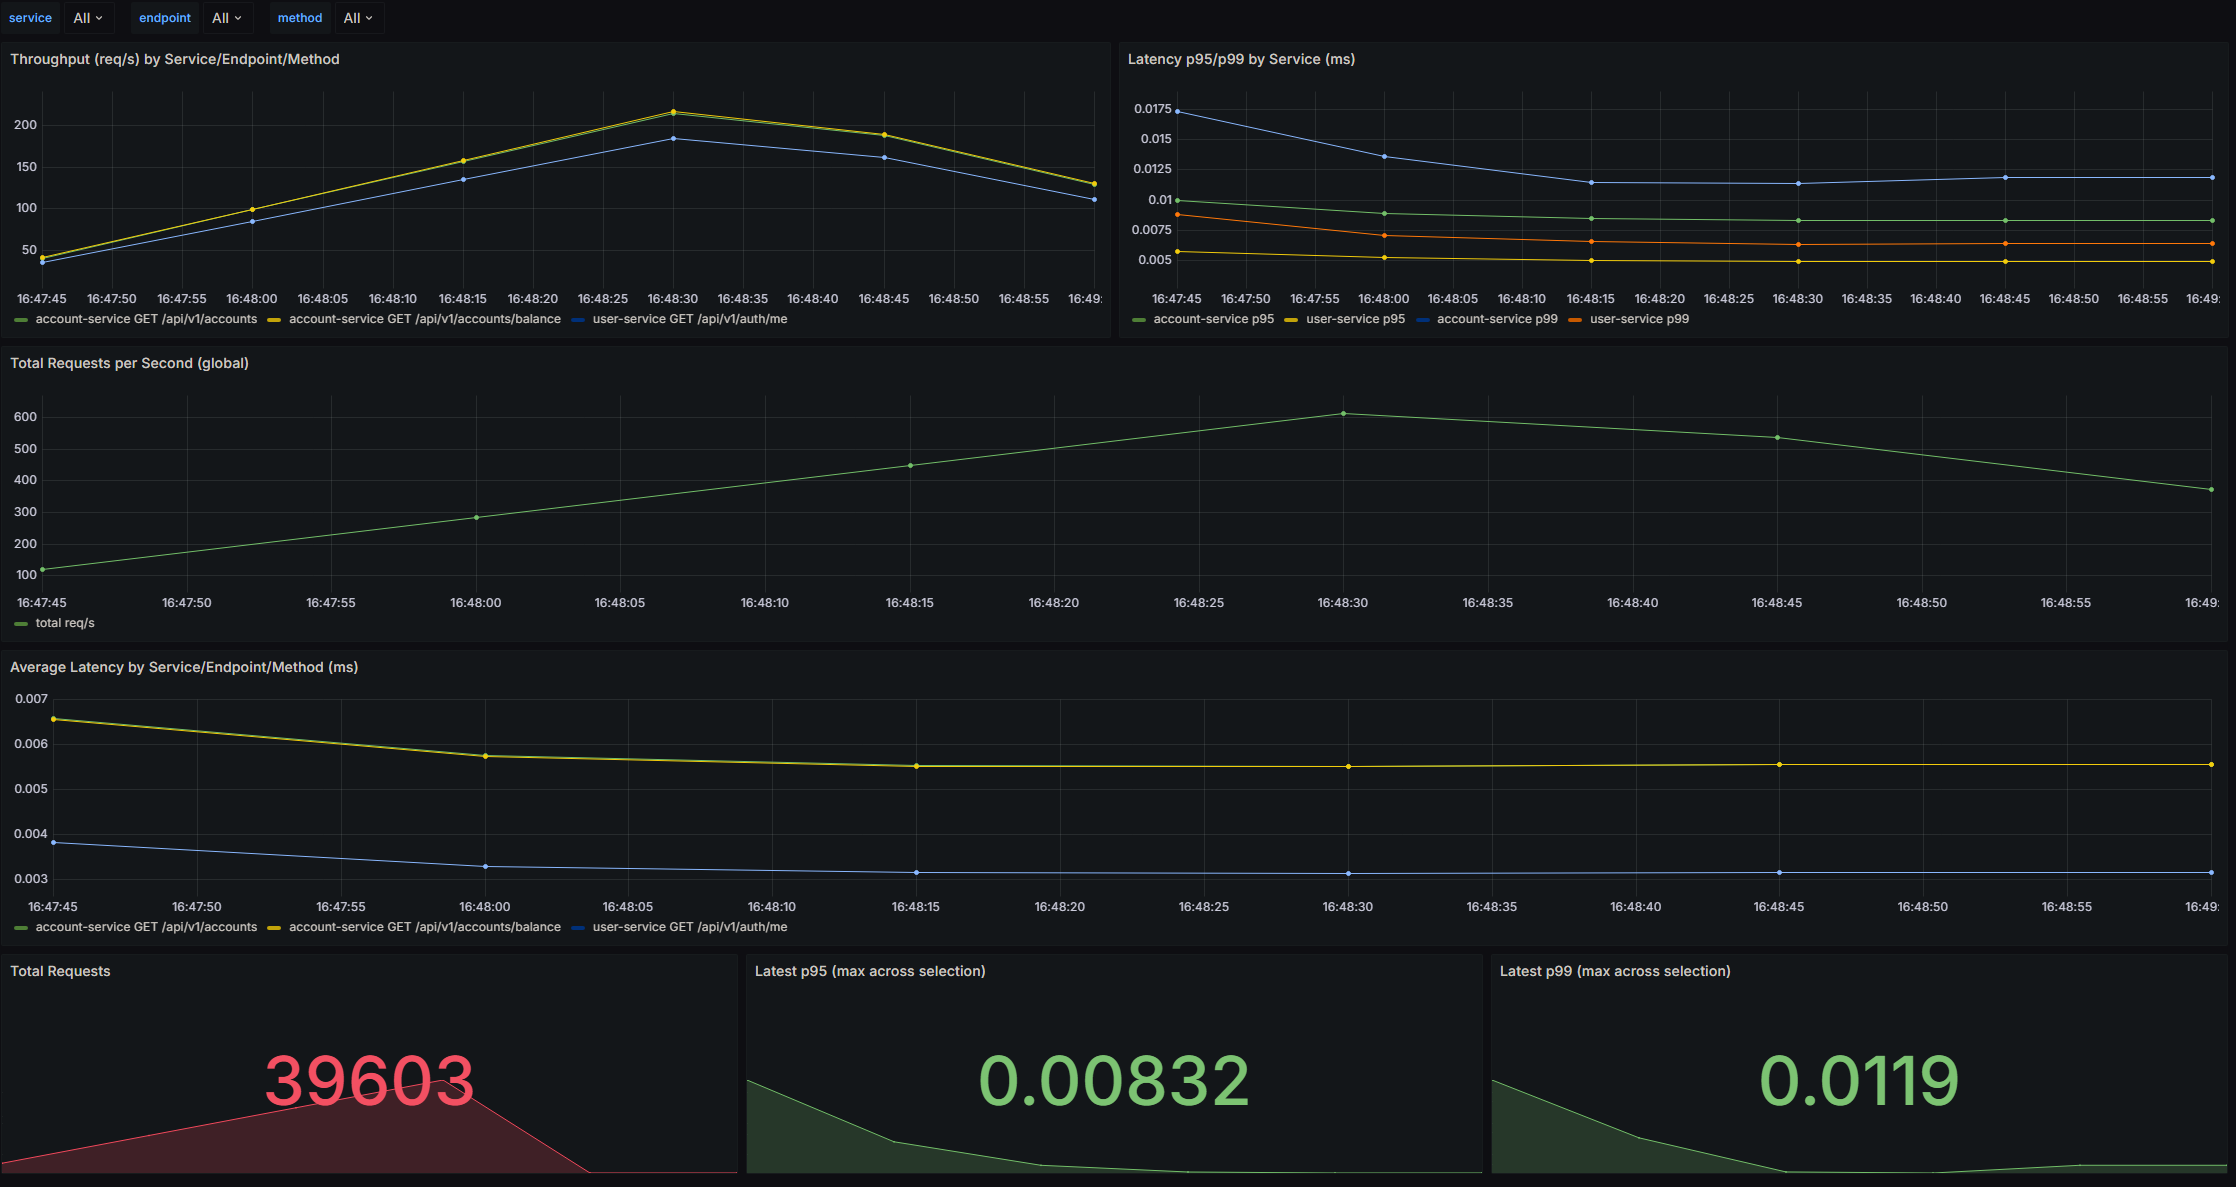
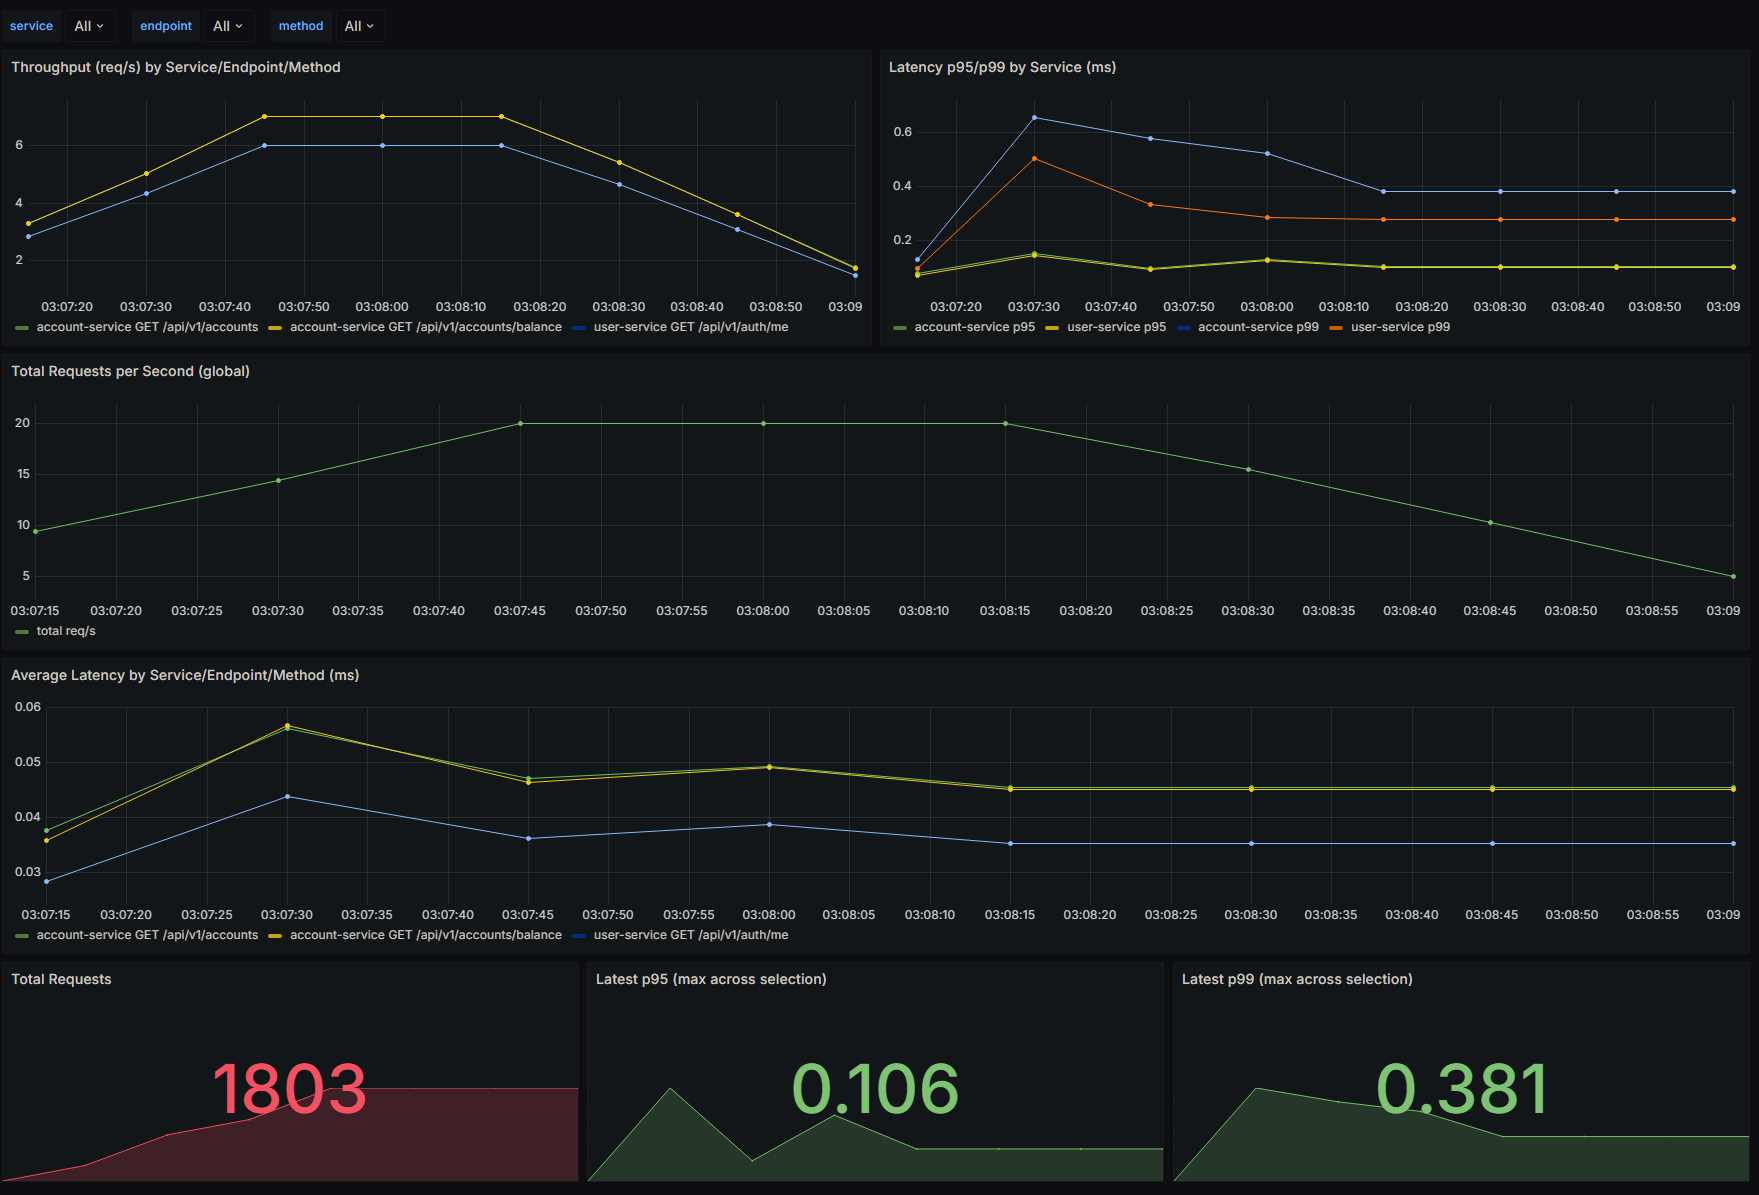
Ajustement tests de charge

diff --git a/docs/rapport/rapport.md b/docs/rapport/rapport.md
@@ -316,20 +316,26 @@ Cette section présente les expériences de performance exécutées sur CanBankX
 
 ### Méthodologie des tests
 
-Les tests de charge ont été exécutés avec `k6`. Les métriques ont été collectées par `Prometheus` puis visualisées dans `Grafana`.
+Les tests de charge ont été exécutés avec `k6`, les métriques ont été collectées par `Prometheus`, puis visualisées dans `Grafana`.
 
-La campagne a été réalisée en trois familles:
-- scénario de référence sans cache Redis;
-- scénario avec cache Redis activé sur les lectures concernées;
-- scénario avec montée en charge horizontale du gateway (`1` à `4` instances) via le load balancer NGINX.
+Toutes les campagnes ont été réalisées sur la VM fournie pour le projet (`vm-amir-log430`), et non sur une machine locale de développement. Les exécutions ont été faites via `docker-compose`, avec Keycloak pour l'authentification et KrakenD comme point d'entrée API.
 
-Les campagnes de charge ont été configurées pour viser un niveau élevé de trafic, avec une cible principale autour de `660` requêtes par seconde pour les scénarios métiers, et un objectif minimal de `600` requêtes par seconde.
+La campagne a été organisée en deux axes:
+- comparaison `sans cache` vs `cache Redis activé`;
+- montée en charge horizontale des services (`1` à `4` instances) derrière le load balancer NGINX.
 
-Les indicateurs observés dans les tableaux de bord sont:
-- latence `P95` et `P99`;
-- requêtes par seconde (throughput);
-- taux d'erreurs;
-- saturation CPU/mémoire quand elle est visible.
+Sur cette VM, la campagne a été stabilisée autour d'une cible opérationnelle d'environ `20 req/s` pour obtenir des résultats fiables et reproductibles sur les scénarios métiers.
+
+Paramètres de campagne:
+- durée de chaque exécution: `90s`;
+- charge visée: `~20 req/s`;
+- comparaison sur les configurations sans cache, avec cache, puis montée en charge de `1` à `4` instances.
+
+Les indicateurs suivis sont:
+- latence (`avg`, `P95`, `P99`);
+- throughput (requêtes par seconde);
+- taux d'erreurs (requêtes en échec et codes HTTP d'erreur);
+- stabilité sous charge (variation des courbes Grafana).
 
 ### Résultats sans cache
 
@@ -340,9 +346,20 @@ Les captures suivantes correspondent au baseline sans cache. Elles servent de po
 ![Résultats sans cache - vue 3](images/without-cache-3.png)
 ![Résultats sans cache - vue 4](images/without-cache-4.png)
 
-Sur ces vues sans cache, on observe le comportement de référence: la latence et le débit restent dépendants de la pression directe sur PostgreSQL. Les graphiques de requêtes et de latence montrent la réponse du système sans optimisation de lecture, ce qui constitue la base de comparaison pour les sections suivantes.
+Captures console `k6` associées (sans cache):
 
-En termes de débit, les courbes montrent que le système atteint un palier de plusieurs centaines de requêtes par seconde, avec une référence autour du seuil cible (`600+` req/s) selon la charge appliquée.
+![k6 sans cache - run 1](images/k6-without-cache-1.png)
+![k6 sans cache - run 2](images/k6-without-cache-2.png)
+![k6 sans cache - run 3](images/k6-without-cache-3.png)
+![k6 sans cache - run 4](images/k6-without-cache-4.png)
+
+Ces vues représentent le comportement de référence: la latence est plus sensible à la charge de lecture sur PostgreSQL et les courbes sont moins stables que dans la configuration avec cache. Ce baseline sert de point de comparaison direct pour évaluer le gain de Redis.
+
+Mesures observées dans Grafana sur les runs de référence (sans cache):
+- débit nominal autour de `20 req/s` (plateau proche de la cible configurée);
+- latence moyenne élevée (ordre de grandeur autour de `500 ms` sur les runs chargés);
+- pics de latence `P95` pouvant dépasser `2 s` dans les configurations les moins favorables;
+- stabilité globalement inférieure à la configuration avec cache.
 
 ### Résultats avec Redis
 
@@ -353,37 +370,58 @@ Les captures suivantes montrent la configuration avec cache Redis activé.
 ![Résultats avec Redis - vue 3](images/with-cache-3.png)
 ![Résultats avec Redis - vue 4](images/with-cache-4.png)
 
-Par comparaison avec les captures sans cache, ces vues montrent une réduction de la pression sur la base pour les lectures répétitives. L'effet attendu est visible sur la stabilité des courbes de latence et sur la capacité à soutenir plus de requêtes, avec un taux d'erreurs maîtrisé selon les dashboards.
+Captures console `k6` associées (avec cache):
 
-Le throughput observé devient plus stable autour des paliers élevés de charge, ce qui confirme que l'activation de Redis aide à maintenir les requêtes par seconde atteintes pendant les tests.
+![k6 avec cache - run 1](images/k6-with-cache-1.png)
+![k6 avec cache - run 2](images/k6-with-cache-2.png)
+![k6 avec cache - run 3](images/k6-with-cache-3.png)
+![k6 avec cache - run 4](images/k6-with-cache-4.png)
+
+Par comparaison avec le baseline, l'activation de Redis réduit la pression de lecture sur PostgreSQL et améliore la stabilité des temps de réponse. Les tableaux de bord Grafana montrent un taux d'erreurs maîtrisé (`http_req_failed` proche de `0%` dans les runs stables) et un throughput maintenu autour de la cible configurée sur la VM.
+
+Mesures observées dans Grafana avec cache activé:
+- taux d'erreurs proche de `0%` sur les runs stables;
+- throughput maintenu autour de `20 req/s`;
+- latence selon le niveau de scale:
+- cache + 1 instance: `avg≈514 ms`, `P95≈2.15 s`;
+- cache + 4 instances: `avg≈91 ms`, `P95≈519 ms`, `max≈1.55 s`.
 
 ### Résultats avec load balancing
 
 Les tests de scalabilité ont été exécutés avec `1`, `2`, `3` et `4` instances, en distribution de trafic via NGINX vers `api-gateway`.
 
-Pour l'analyse, la comparaison des captures sans cache et avec cache permet aussi d'observer l'impact de la montée en charge:
-- les premières vues représentent le comportement avec un niveau d'instances minimal;
-- les vues suivantes montrent l'évolution quand la capacité horizontale augmente.
+L'analyse croisée des runs montre que la montée de `1` à `4` instances améliore la robustesse sous charge sur l'infrastructure disponible: la distribution de trafic limite les pics de latence et améliore la régularité du comportement applicatif, surtout lorsque Redis est activé.
 
-Les graphiques indiquent que la répartition de charge améliore la tenue du système sous trafic plus élevé. Quand le nombre d'instances augmente, la capacité globale progresse et les métriques de latence restent plus stables, en particulier avec Redis activé.
+Comparaison chiffrée (cache activé):
+- débit: stable autour de `20 req/s` dans les deux cas (`1` et `4` instances);
+- latence moyenne: `~514 ms` -> `~91 ms` (amélioration d'environ `82%`);
+- latence `P95`: `~2.15 s` -> `~519 ms` (amélioration d'environ `76%`);
+- taux d'erreur: maintenu à `0%` dans les runs stables.
 
-Dans ce contexte, l'architecture atteint et soutient les objectifs de débit visés (au moins `600` req/s, avec des campagnes ciblées à `660` req/s) de manière plus robuste lorsque plusieurs instances sont actives.
+Sur la VM fournie, ce scaling horizontal permet principalement d'améliorer la stabilité et de mieux absorber la charge cible des tests, plutôt que de viser des débits extrêmes.
 
 ### Analyse globale
 
-L'ensemble des captures Grafana met en évidence trois points:
-- Redis améliore les performances en lecture et réduit la charge directe sur PostgreSQL.
-- Le load balancing avec plusieurs instances augmente la capacité du système à absorber le trafic.
-- L'architecture microservices de CanBankX supporte bien la scalabilité horizontale, avec une meilleure stabilité des indicateurs quand le cache et la distribution de charge sont combinés.
+L'ensemble des captures Grafana et k6 met en évidence trois points:
+- Redis améliore les performances de lecture et réduit la pression directe sur PostgreSQL.
+- Le load balancing avec plusieurs instances améliore la tenue sous charge et la stabilité des métriques.
+- L'architecture microservices de CanBankX se comporte de manière plus régulière quand cache + distribution de charge sont combinés.
+
+Synthèse chiffrée de la campagne:
+- `8` runs principaux (sans cache + avec cache, de `1` à `4` instances);
+- `90s` par run, soit `12` minutes de charge active au total (hors temps de préparation);
+- volume typique par run stable visible sur Grafana: ~`1800` requêtes;
+- volume total traité sur les `8` runs stables: ~`14 400` requêtes;
+- objectif opérationnel atteint sur VM: stabilité autour de `20 req/s` avec erreurs nulles sur les runs valides.
 
 ### Conclusion des tests
 
-Les tests confirment que l'architecture choisie est cohérente avec les objectifs de performance du projet.
-- Le scénario sans cache fournit un baseline utile pour la comparaison.
-- L'activation de Redis améliore les lectures et la stabilité des temps de réponse.
-- La montée en charge de `1` à `4` instances via load balancing améliore le throughput et la robustesse opérationnelle.
+Les tests confirment que l'architecture est cohérente avec les objectifs de performance du projet dans le contexte de la VM fournie.
+- Le scénario sans cache fournit un baseline clair.
+- L'activation de Redis améliore la stabilité des lectures et la régularité des temps de réponse.
+- La montée en charge de `1` à `4` instances renforce la robustesse opérationnelle.
 
-En résumé, les résultats observés dans Grafana montrent que CanBankX peut maintenir un comportement stable sous charge, tout en bénéficiant clairement du cache Redis et de la scalabilité horizontale.
+En résumé, les résultats observés dans Grafana montrent que CanBankX maintient un comportement stable sous charge sur l'infrastructure de test, avec un bénéfice net du cache Redis et de la scalabilité horizontale.
 
 ## Éléments techniques supplémentaires
 
